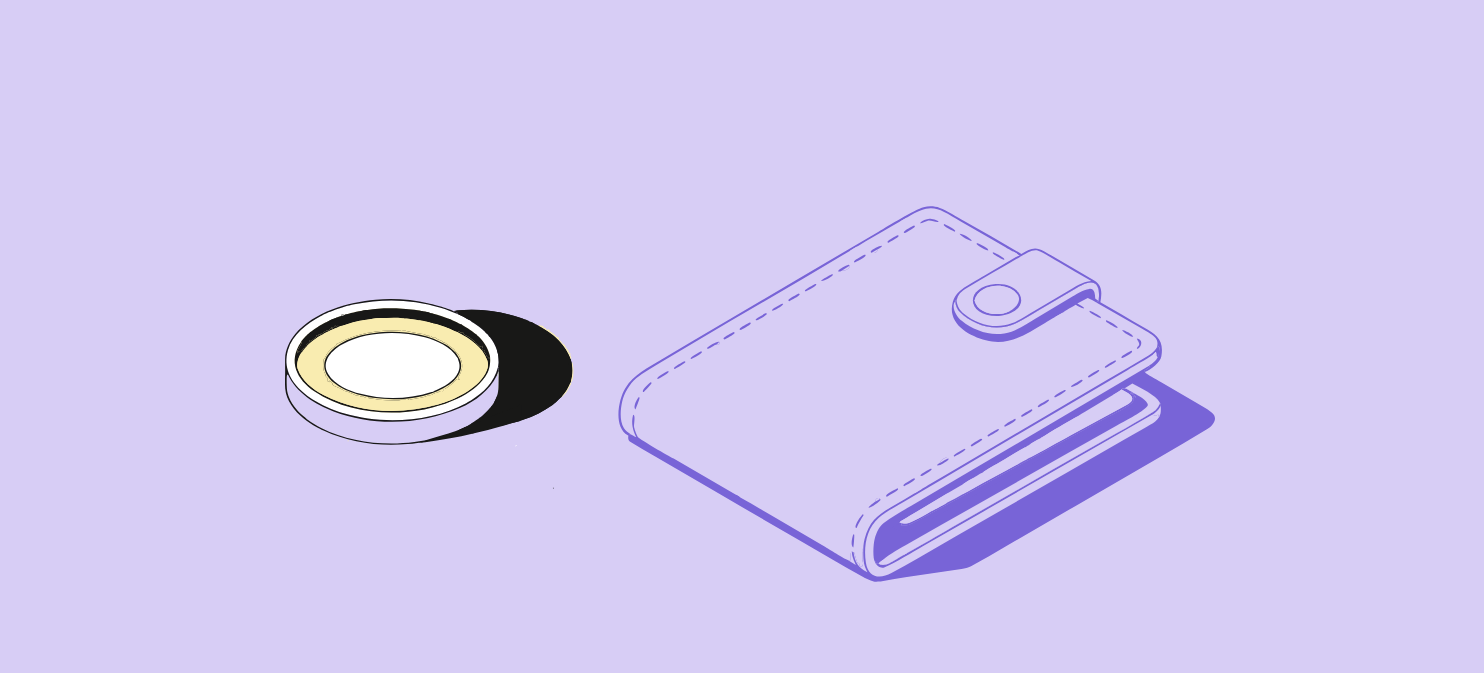
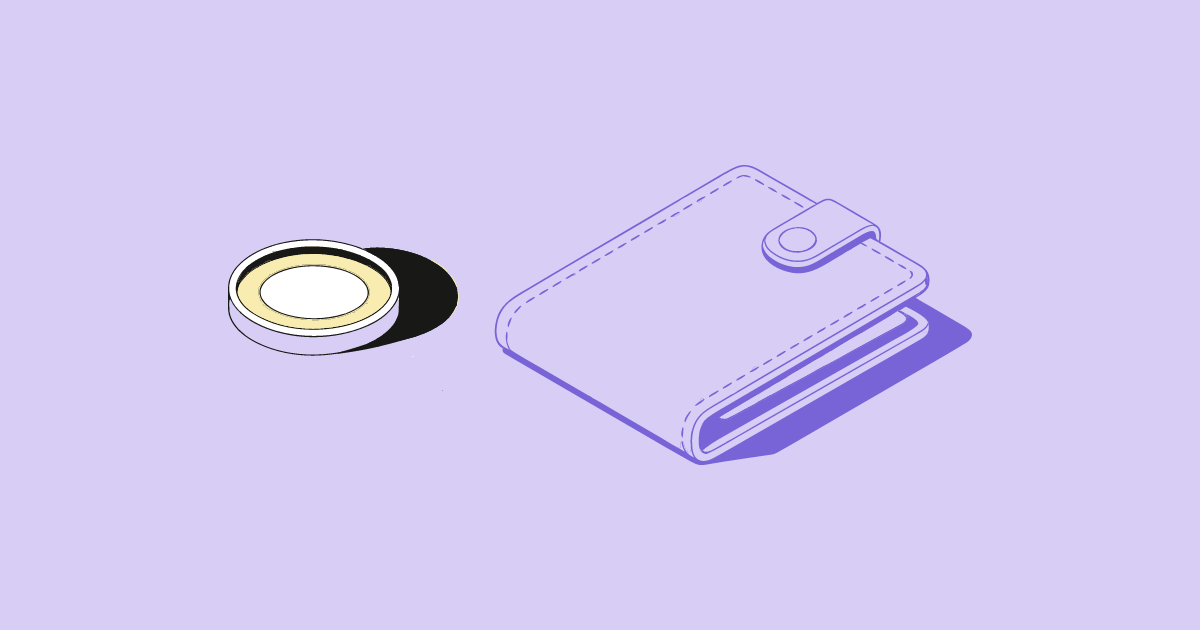
Ещё два примера композиций, PNG-превью через resvg, обновлён README

diff --git a/scripts/examples.ts b/scripts/examples.ts
@@ -2,6 +2,7 @@
 import fs from 'node:fs'
 import { matchObjects, type Library, type LibObject } from '../src/lib/library'
 import { FORMATS, autoCompose, exportSvg, sortByDepth } from '../src/lib/compose'
+import { Resvg } from '@resvg/resvg-js'
 import { SCHEMES } from '../src/lib/palette'
 
 const objects = JSON.parse(fs.readFileSync('public/library.json', 'utf8')).objects as LibObject[]
@@ -11,11 +12,16 @@ const jobs = [
   { file: 'finansovaya-bezopasnost', query: 'финансовая безопасность', format: 'og', scheme: 'violet', size: 'S' as const },
   { file: 'ideya-dlya-startapa', query: 'идея для стартапа', format: 'sq', scheme: 'peach', size: 'L' as const },
   { file: 'obuchenie-onlayn', query: 'обучение онлайн', format: 'wide', scheme: 'teal', size: 'S' as const },
+  { file: 'komandnaya-rabota', query: 'командная работа над проектом', format: 'portrait', scheme: 'violet', size: 'L' as const },
+  { file: 'tvorchestvo-i-muzyka', query: 'творчество и музыка', format: 'og', scheme: 'peach', size: 'S' as const },
 ]
 fs.mkdirSync('examples', { recursive: true })
 for (const j of jobs) {
   const top = matchObjects(lib, j.query).slice(0, 4)
   const c = autoCompose(top.map(m => m.obj), FORMATS.find(f => f.id === j.format)!, SCHEMES.find(s => s.id === j.scheme)!, top.length >= 4 ? 2 : 1, j.size)
-  fs.writeFileSync(`examples/${j.file}.svg`, exportSvg(lib, { ...c, items: sortByDepth(c.items) }))
+  const svg = exportSvg(lib, { ...c, items: sortByDepth(c.items) })
+  fs.writeFileSync(`examples/${j.file}.svg`, svg)
+  // PNG-превью ровно того же размера, что и SVG
+  fs.writeFileSync(`examples/${j.file}.png`, new Resvg(svg, { fitTo: { mode: 'original' } }).render().asPng())
   console.log(j.file, '←', top.map(m => m.obj.name).join(', '))
 }
